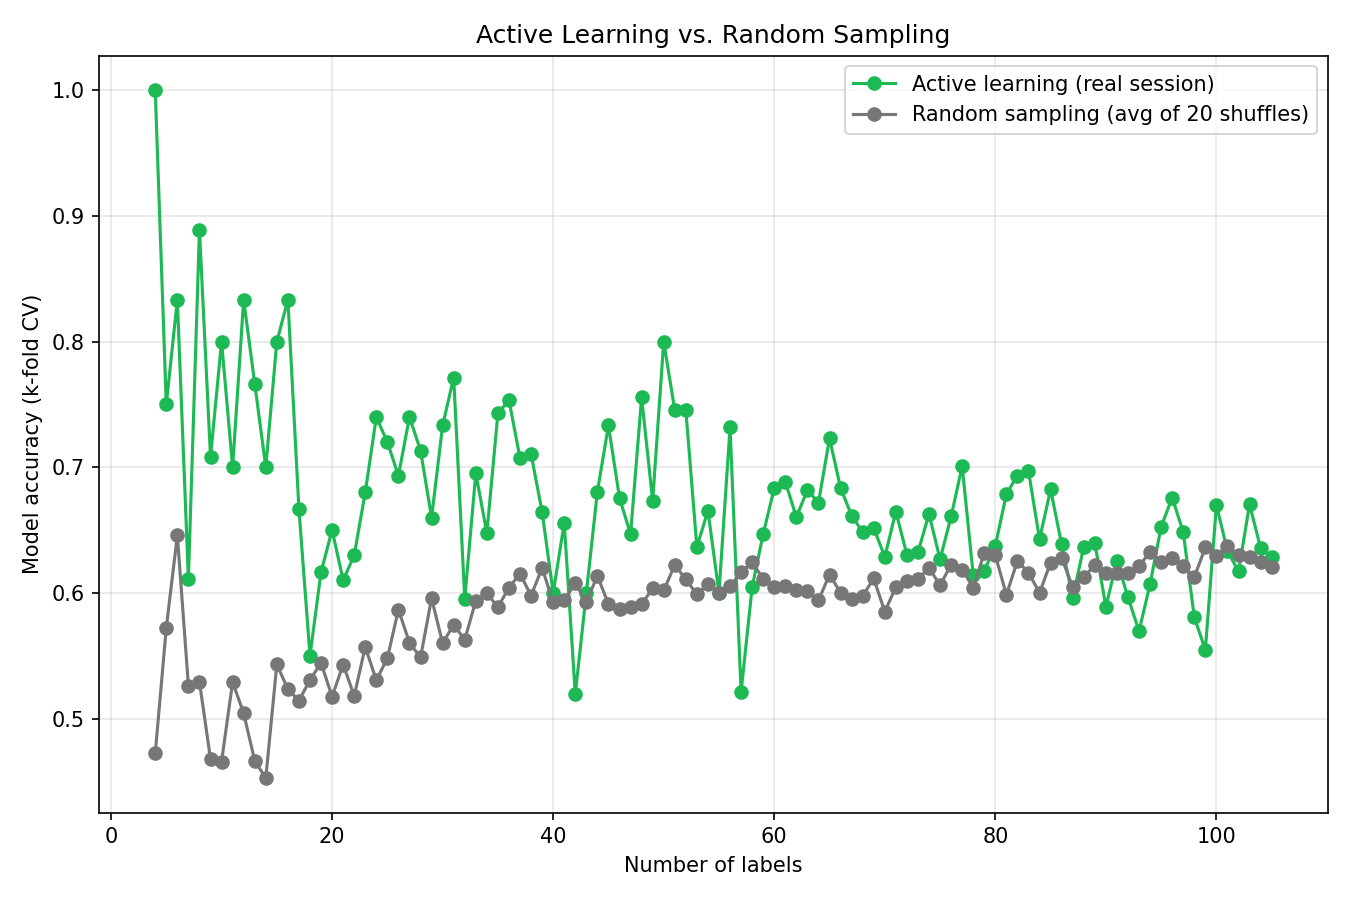
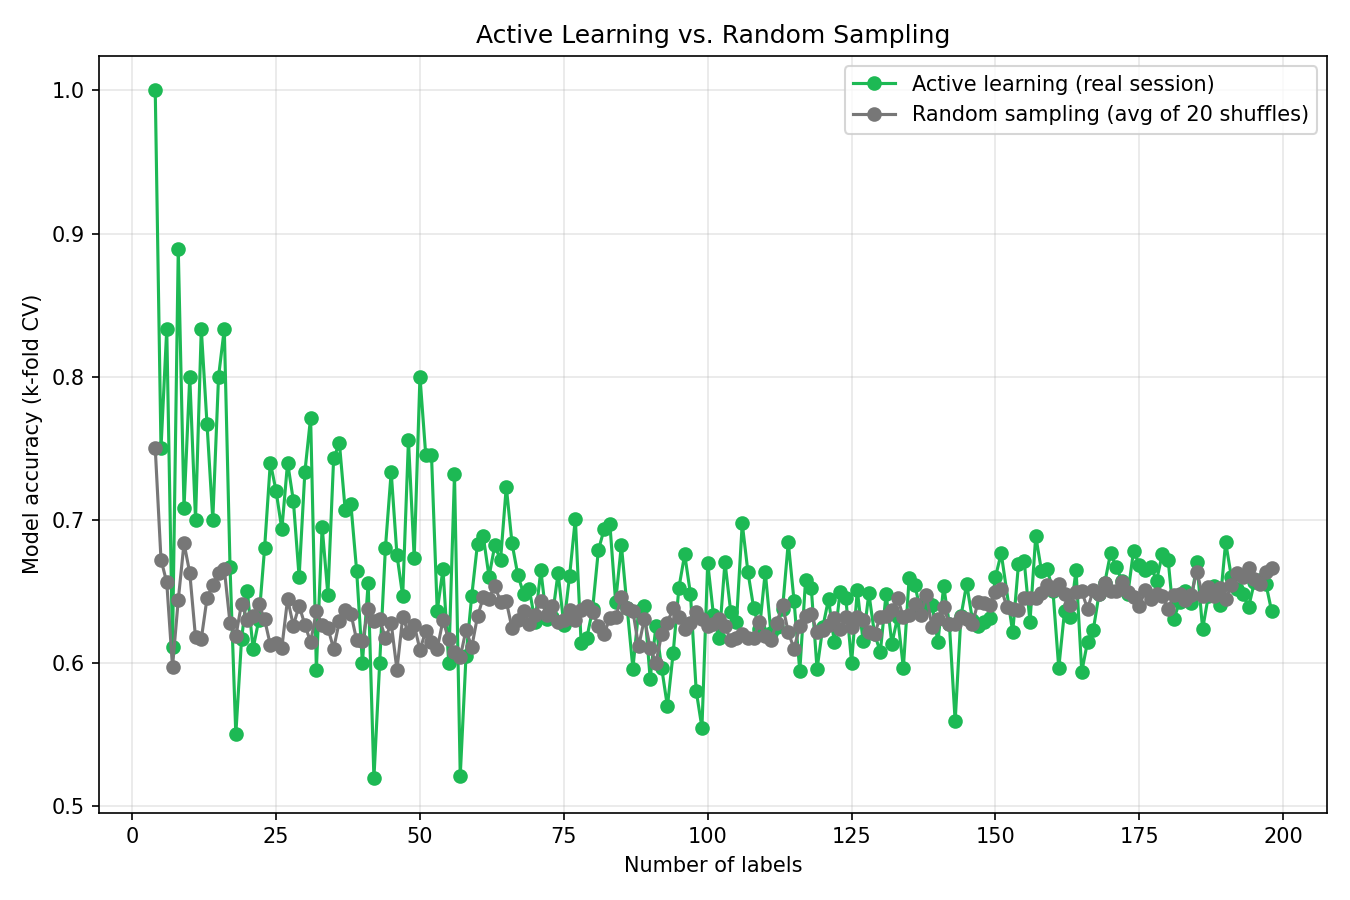
Restructure README with model-performance and API-stability notes
- New "Model performance over time" section: honest framing of why
  lift over baseline shrank as the dataset grew (+20pts at 35 labels
  down to +7.7pts at 196), plus a new finding that a plain logistic
  regression edges out the live RandomForest on the same 198 labels
  and identical k-fold splits (68.6% vs 63.6%, both vs 58.6%
  baseline) — framed as differing signal, not a case for switching
  models, since RandomForest still drives the live active-learning
  loop and the feature-importance/taste-summary interpretability
  story.
- Corrected the active-learning-vs-random-sampling chart caption
  against the freshly regenerated 198-label chart: the steady
  labels-60-100 gap didn't hold up on inspection (green dips below
  gray repeatedly in that range); the real, consistent lead is in
  the first ~50 labels (~10-15pts) before the curves converge.
  Refreshed assets/labels_vs_accuracy.png to match, since the old
  committed copy predated ~90 of the 198 real labels.
- New "Built against a live, changing API" section documenting the
  audio-features/genre lockout, the playlist_items schema change,
  and the /users/{id}/playlists retirement.
- Wrapped the Setup/Deployment instructions in a collapsible
  <details> block to keep the top of the README focused on the
  portfolio narrative.

diff --git a/README.md b/README.md
@@ -13,9 +13,37 @@ swipes stay in your session only; see [Multi-user deployment](#multi-user-deploy
   <img src="assets/labels_vs_accuracy.png" width="640" alt="Active learning vs. random sampling accuracy curve">
 </p>
 
-Active learning (green) tracks above random sampling (gray) for most of a real
-198-label swiping session — the uncertainty-sampling loop is picking up signal
-faster than chance, not just going in order.
+Active learning (green) tracks above random sampling (gray) most clearly
+through the first ~50 labels of a real 198-label swiping session, holding a
+lead of roughly 10-15 accuracy points — the uncertainty-sampling loop is
+picking up signal faster than chance early on, not just going in order. After
+that the two curves interleave and largely converge for the rest of the
+session, as both models level off around the same accuracy once there's
+enough data either way.
+
+### Model performance over time
+
+Lift over the majority-class baseline actually *shrank* as the dataset grew —
++20pts at 35 labels, down to +7.7pts at 196. That's not a regression; it's
+what happens when more data pushes the Keep/Remove split closer to 50/50,
+which raises the baseline's own accuracy and makes it a harder target to
+beat. The absolute model accuracy stayed in a similar range throughout (74% →
+66%); what changed was how impressive that number looks next to an
+increasingly competitive baseline. Reporting the honest number here rather
+than the flashier early one.
+
+A simpler model tells an interesting side story here too: run head-to-head on
+the same 198 labels with identical k-fold splits, a plain logistic regression
+actually edges out the RandomForest used in the live app — 68.6% vs 63.6%
+accuracy, both against a 58.6% majority-class baseline. The two models also
+disagree on what matters most: logistic regression's strongest signal is
+`play_recency_days` and `playlist_count`, while the RandomForest leans
+hardest on `days_since_added` and `release_year`. That's not a case for
+switching — RandomForest stays the model driving the live active-learning
+loop, feature importance chart, and taste summary above, kept for its
+non-linear splits and its role in that interpretability story — but it's a
+genuine finding about how model choice changes which signal gets surfaced
+from the same data.
 
 ### What the model learned about my taste
 
@@ -37,6 +65,15 @@ The strongest signal by far is how recently a track was added, followed by
 release year and how many other tracks I've saved from the same artist —
 `insights.py` and [`data/taste_summary.md`](data/taste_summary.md) turn that
 into the plain-English summary above.
+
+### Built against a live, changing API
+
+Spotify deprecated or restructured several endpoints mid-project —
+`audio-features` and artist genre lookups were removed for apps without
+Extended Quota approval, `playlist_items` responses were restructured, and
+`/users/{id}/playlists` was fully retired for playlist creation as of March
+2026. Each one broke something real; each fix is documented in the commit
+history rather than silently patched over.
 
 ---
 
@@ -62,6 +99,9 @@ genre data are **not** used anywhere in this project — all three require Spoti
 endpoints (`audio-features`, `artists`) that 403 for apps without Extended Quota
 Mode approval, which personal/hobby apps don't get. All signal instead comes from
 track metadata and your own behavior (recently played, playlists, saves).
+
+<details>
+<summary><strong>Full setup instructions</strong> (Spotify credentials, local dev, deployment)</summary>
 
 ## Setup
 
@@ -252,3 +292,5 @@ database) — not implemented here.
 6. Make sure your (and any testers') Spotify accounts are added under the
    dashboard's **User Management** tab (Setup step 7 above) — Development Mode
    apps only allow allowlisted accounts to authenticate, deployed or not.
+
+</details>
